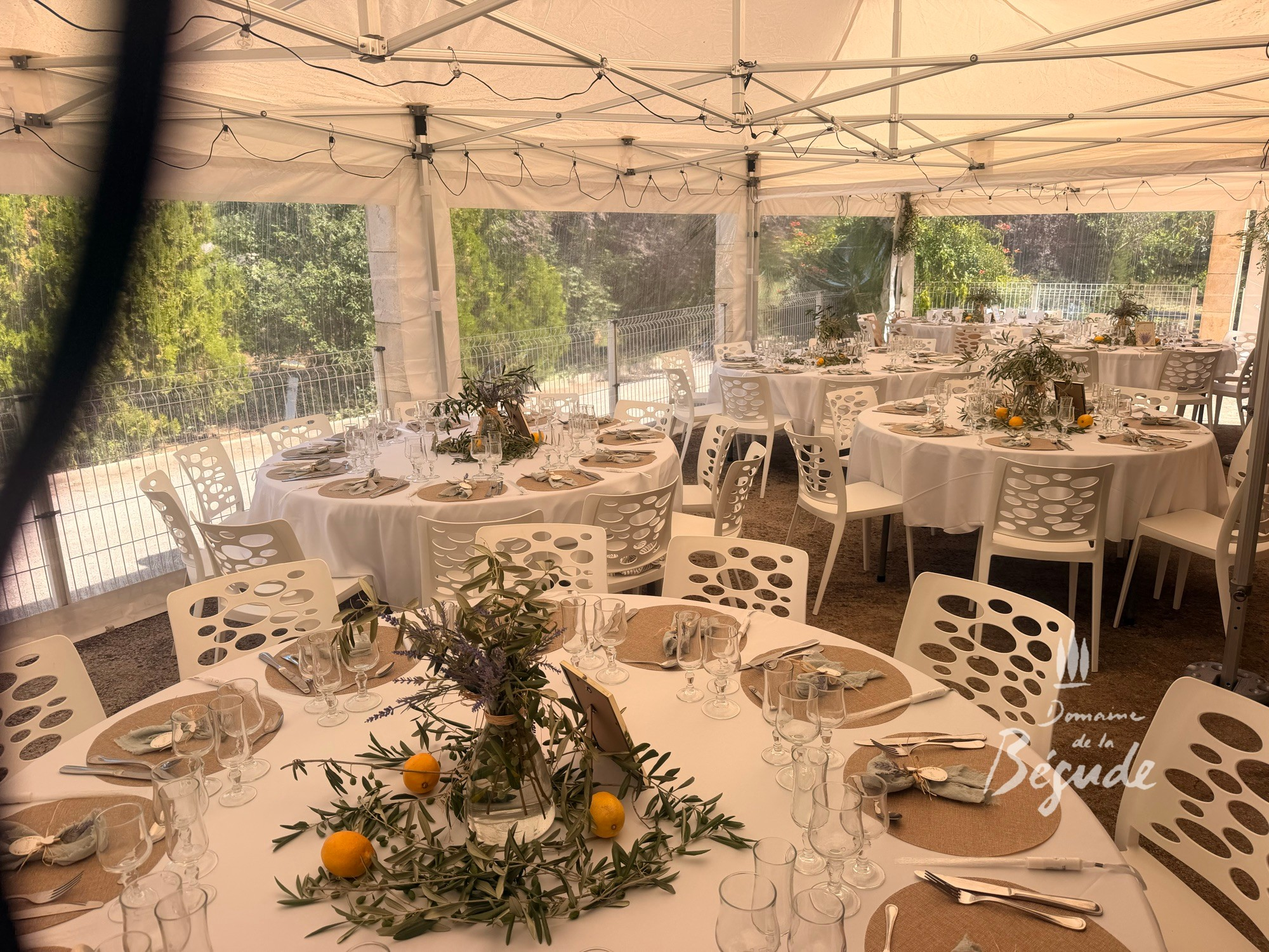
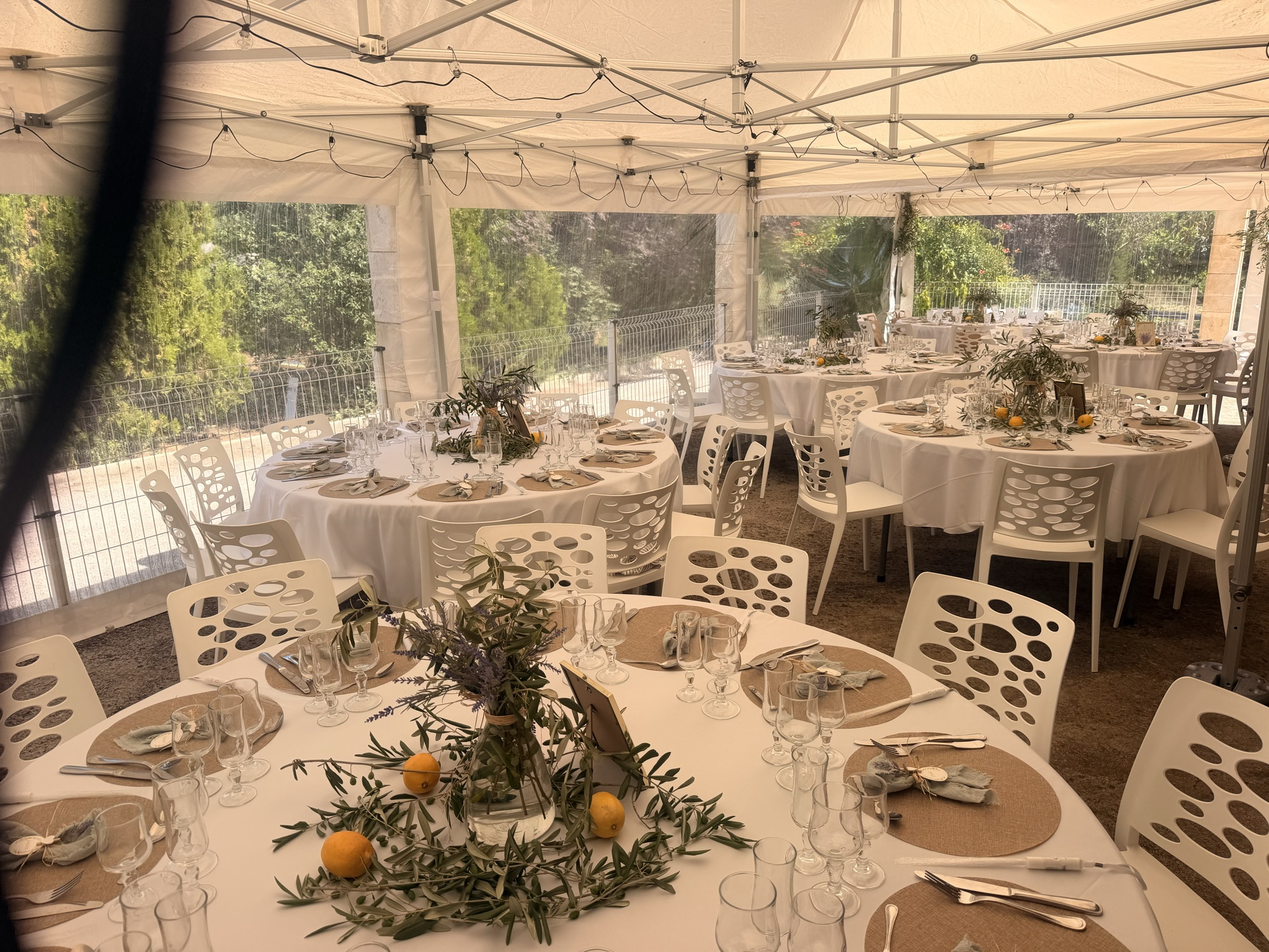
Remove watermark feature entirely, restore all photos to clean state
The logo watermark caused repeated compounding issues (stacked/overlapping
stamps from multiple correction passes, inconsistent sizing, confusion
between static fallback files and the actual DB-served copies). Removed
watermark compositing from uploadPhoto/replacePhoto — they now only
normalize format (still convert HEIC via heic-convert, still re-encode
to JPEG) with no logo overlay. Wiped all corrupted media rows and
reseeded the 21 original galerie/hebergement photos from pristine git
history, watermark-free. Restored the static hero/fallback images the
same way.

Claude-Session: https://claude.ai/code/session_016yBenxaGEYk3TPBzyDCW1j

diff --git a/src/app/admin/(dashboard)/photos/actions.ts b/src/app/admin/(dashboard)/photos/actions.ts
@@ -2,7 +2,7 @@
 
 import { revalidatePath } from "next/cache";
 import { supabaseAdmin } from "@/lib/supabase-admin";
-import { watermarkImage } from "@/lib/watermark";
+import { processUploadedImage } from "@/lib/watermark";
 
 export async function uploadPhoto(formData: FormData) {
   const file = formData.get("file") as File | null;
@@ -11,9 +11,9 @@ export async function uploadPhoto(formData: FormData) {
 
   const supabase = supabaseAdmin();
   const path = `${page}/${crypto.randomUUID()}.jpg`;
-  const watermarked = await watermarkImage(Buffer.from(await file.arrayBuffer()));
+  const processed = await processUploadedImage(Buffer.from(await file.arrayBuffer()));
 
-  const { error } = await supabase.storage.from("media").upload(path, watermarked, {
+  const { error } = await supabase.storage.from("media").upload(path, processed, {
     contentType: "image/jpeg",
   });
   if (error) throw error;
@@ -26,7 +26,7 @@ export async function uploadPhoto(formData: FormData) {
     .limit(1);
   const nextOrder = (existing?.[0]?.sort_order ?? -1) + 1;
 
-  await supabase.from("media").insert({ storage_path: path, page, alt: file.name, sort_order: nextOrder, watermarked: true });
+  await supabase.from("media").insert({ storage_path: path, page, alt: file.name, sort_order: nextOrder });
   revalidatePath("/", "layout");
 }
 
@@ -71,12 +71,12 @@ export async function replacePhoto(id: string, oldStoragePath: string, page: str
 
   const supabase = supabaseAdmin();
   const newPath = `${page}/${crypto.randomUUID()}.jpg`;
-  const watermarked = await watermarkImage(Buffer.from(await file.arrayBuffer()));
+  const processed = await processUploadedImage(Buffer.from(await file.arrayBuffer()));
 
-  const { error } = await supabase.storage.from("media").upload(newPath, watermarked, { contentType: "image/jpeg" });
+  const { error } = await supabase.storage.from("media").upload(newPath, processed, { contentType: "image/jpeg" });
   if (error) throw error;
 
-  await supabase.from("media").update({ storage_path: newPath, alt: file.name, watermarked: true }).eq("id", id);
+  await supabase.from("media").update({ storage_path: newPath, alt: file.name }).eq("id", id);
   await supabase.storage.from("media").remove([oldStoragePath]);
 
   revalidatePath("/", "layout");

diff --git a/src/lib/watermark.ts b/src/lib/watermark.ts
@@ -1,37 +1,6 @@
 import "server-only";
 import sharp from "sharp";
 import convertHeic from "heic-convert";
-import { readFile } from "fs/promises";
-import { join } from "path";
-
-const OPACITY = 0.6;
-const WATERMARK_WIDTH_RATIO = 0.33;
-const MARGIN_RATIO = 0.03;
-
-let logoBuffer: Buffer | null = null;
-
-async function getLogo() {
-  if (!logoBuffer) {
-    logoBuffer = await readFile(join(process.cwd(), "public", "images", "watermark-logo.png"));
-  }
-  return logoBuffer;
-}
-
-async function fadedLogo(width: number) {
-  const { data, info } = await sharp(await getLogo())
-    .resize({ width })
-    .ensureAlpha()
-    .raw()
-    .toBuffer({ resolveWithObject: true });
-
-  for (let i = 3; i < data.length; i += info.channels) {
-    data[i] = Math.round(data[i] * OPACITY);
-  }
-
-  return sharp(data, { raw: { width: info.width, height: info.height, channels: info.channels as 4 } })
-    .png()
-    .toBuffer();
-}
 
 async function toDecodableBuffer(input: Buffer): Promise<Buffer> {
   try {
@@ -43,28 +12,7 @@ async function toDecodableBuffer(input: Buffer): Promise<Buffer> {
   }
 }
 
-export async function watermarkImage(rawInput: Buffer): Promise<Buffer> {
+export async function processUploadedImage(rawInput: Buffer): Promise<Buffer> {
   const input = await toDecodableBuffer(rawInput);
-  const image = sharp(input).rotate();
-  const meta = await image.metadata();
-  const width = meta.width ?? 1600;
-  const height = meta.height ?? 1200;
-
-  const baseSize = Math.min(width, height);
-  const logoWidth = Math.round(baseSize * WATERMARK_WIDTH_RATIO);
-  const logo = await fadedLogo(logoWidth);
-  const logoMeta = await sharp(logo).metadata();
-  const logoHeight = logoMeta.height ?? Math.round(logoWidth * 0.5);
-  const margin = Math.round(baseSize * MARGIN_RATIO);
-
-  return image
-    .composite([
-      {
-        input: logo,
-        left: Math.max(0, width - logoWidth - margin),
-        top: Math.max(0, height - logoHeight - margin),
-      },
-    ])
-    .jpeg({ quality: 88 })
-    .toBuffer();
+  return sharp(input).rotate().jpeg({ quality: 90 }).toBuffer();
 }
